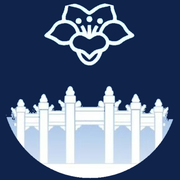
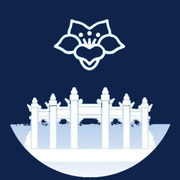
用高清校徽原图重新生成满版图标v4

Changed region(s): [[0.0278, 0.4722, 0.9722, 0.9444], [0.25, 0.0, 0.75, 0.3889], [0.3056, 0.9444, 0.6944, 1.0]]

diff --git a/index.html b/index.html
@@ -8,9 +8,9 @@
   <meta name="apple-mobile-web-app-title" content="考研空间">
   <meta name="theme-color" content="#0f234b">
   <meta name="description" content="子言的考研空间 - 考研备考百日冲刺，华工安全工程">
-  <link rel="apple-touch-icon" href="assets/apple-touch-icon.png?v=2">
-  <link rel="icon" type="image/png" href="assets/icon-192.png?v=2">
-  <link rel="manifest" href="manifest.json?v=2">
+  <link rel="apple-touch-icon" href="assets/apple-touch-icon.png?v=4">
+  <link rel="icon" type="image/png" href="assets/icon-192.png?v=4">
+  <link rel="manifest" href="manifest.json?v=4">
   <title>子言的考研空间 | 华工安全工程</title>
   <style>
     :root {

diff --git a/sw.js b/sw.js
@@ -1,5 +1,5 @@
 // 子言的考研空间 - Service Worker (PWA 离线缓存)
-const CACHE_NAME = 'ziyan-study-room-v9';
+const CACHE_NAME = 'ziyan-study-room-v10';
 const ASSETS = [
   './',
   './index.html',
